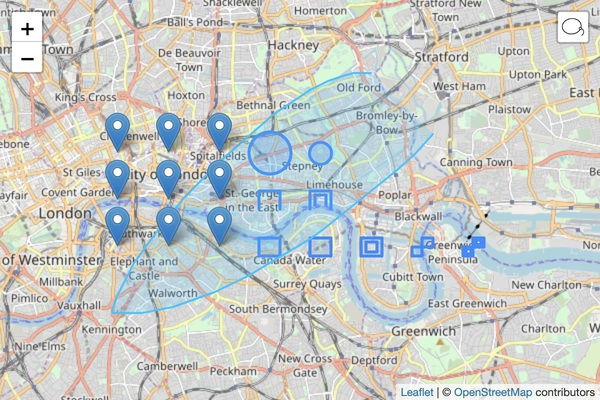
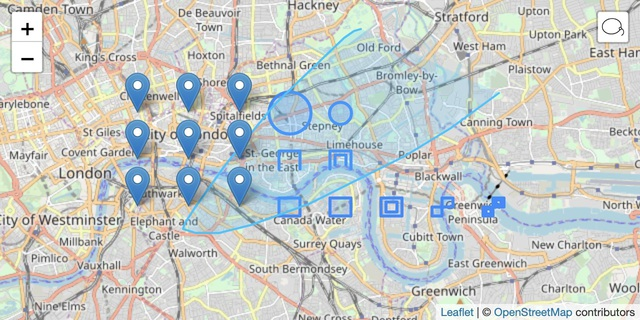
Docs - retina image

diff --git a/docs/index.html b/docs/index.html
@@ -12,12 +12,12 @@
     <link rel="stylesheet" href="https://stackpath.bootstrapcdn.com/bootstrap/4.3.1/css/bootstrap.min.css">
     <style>
         #map {
-            width: 600px;
-            height: 400px;
+            width: 640px;
+            height: 320px;
             float: left;
         }
         #sidebar {
-            margin-left: 610px;
+            margin-left: 650px;
         }
         .selected {
             filter: hue-rotate(135deg);

diff --git a/README.md b/README.md
@@ -2,7 +2,7 @@
 
 True lasso selection plugin for Leaflet. [Demo](http://zakjan.github.io/leaflet-lasso/docs/index.html)
 
-![Screenshot](http://zakjan.github.io/leaflet-lasso/docs/screenshot.jpg)
+<img src="http://zakjan.github.io/leaflet-lasso/docs/screenshot@2x.jpg" alt="Screenshot" width="640" height="320">
 
 Supports all Leaflet vector layers:
 
